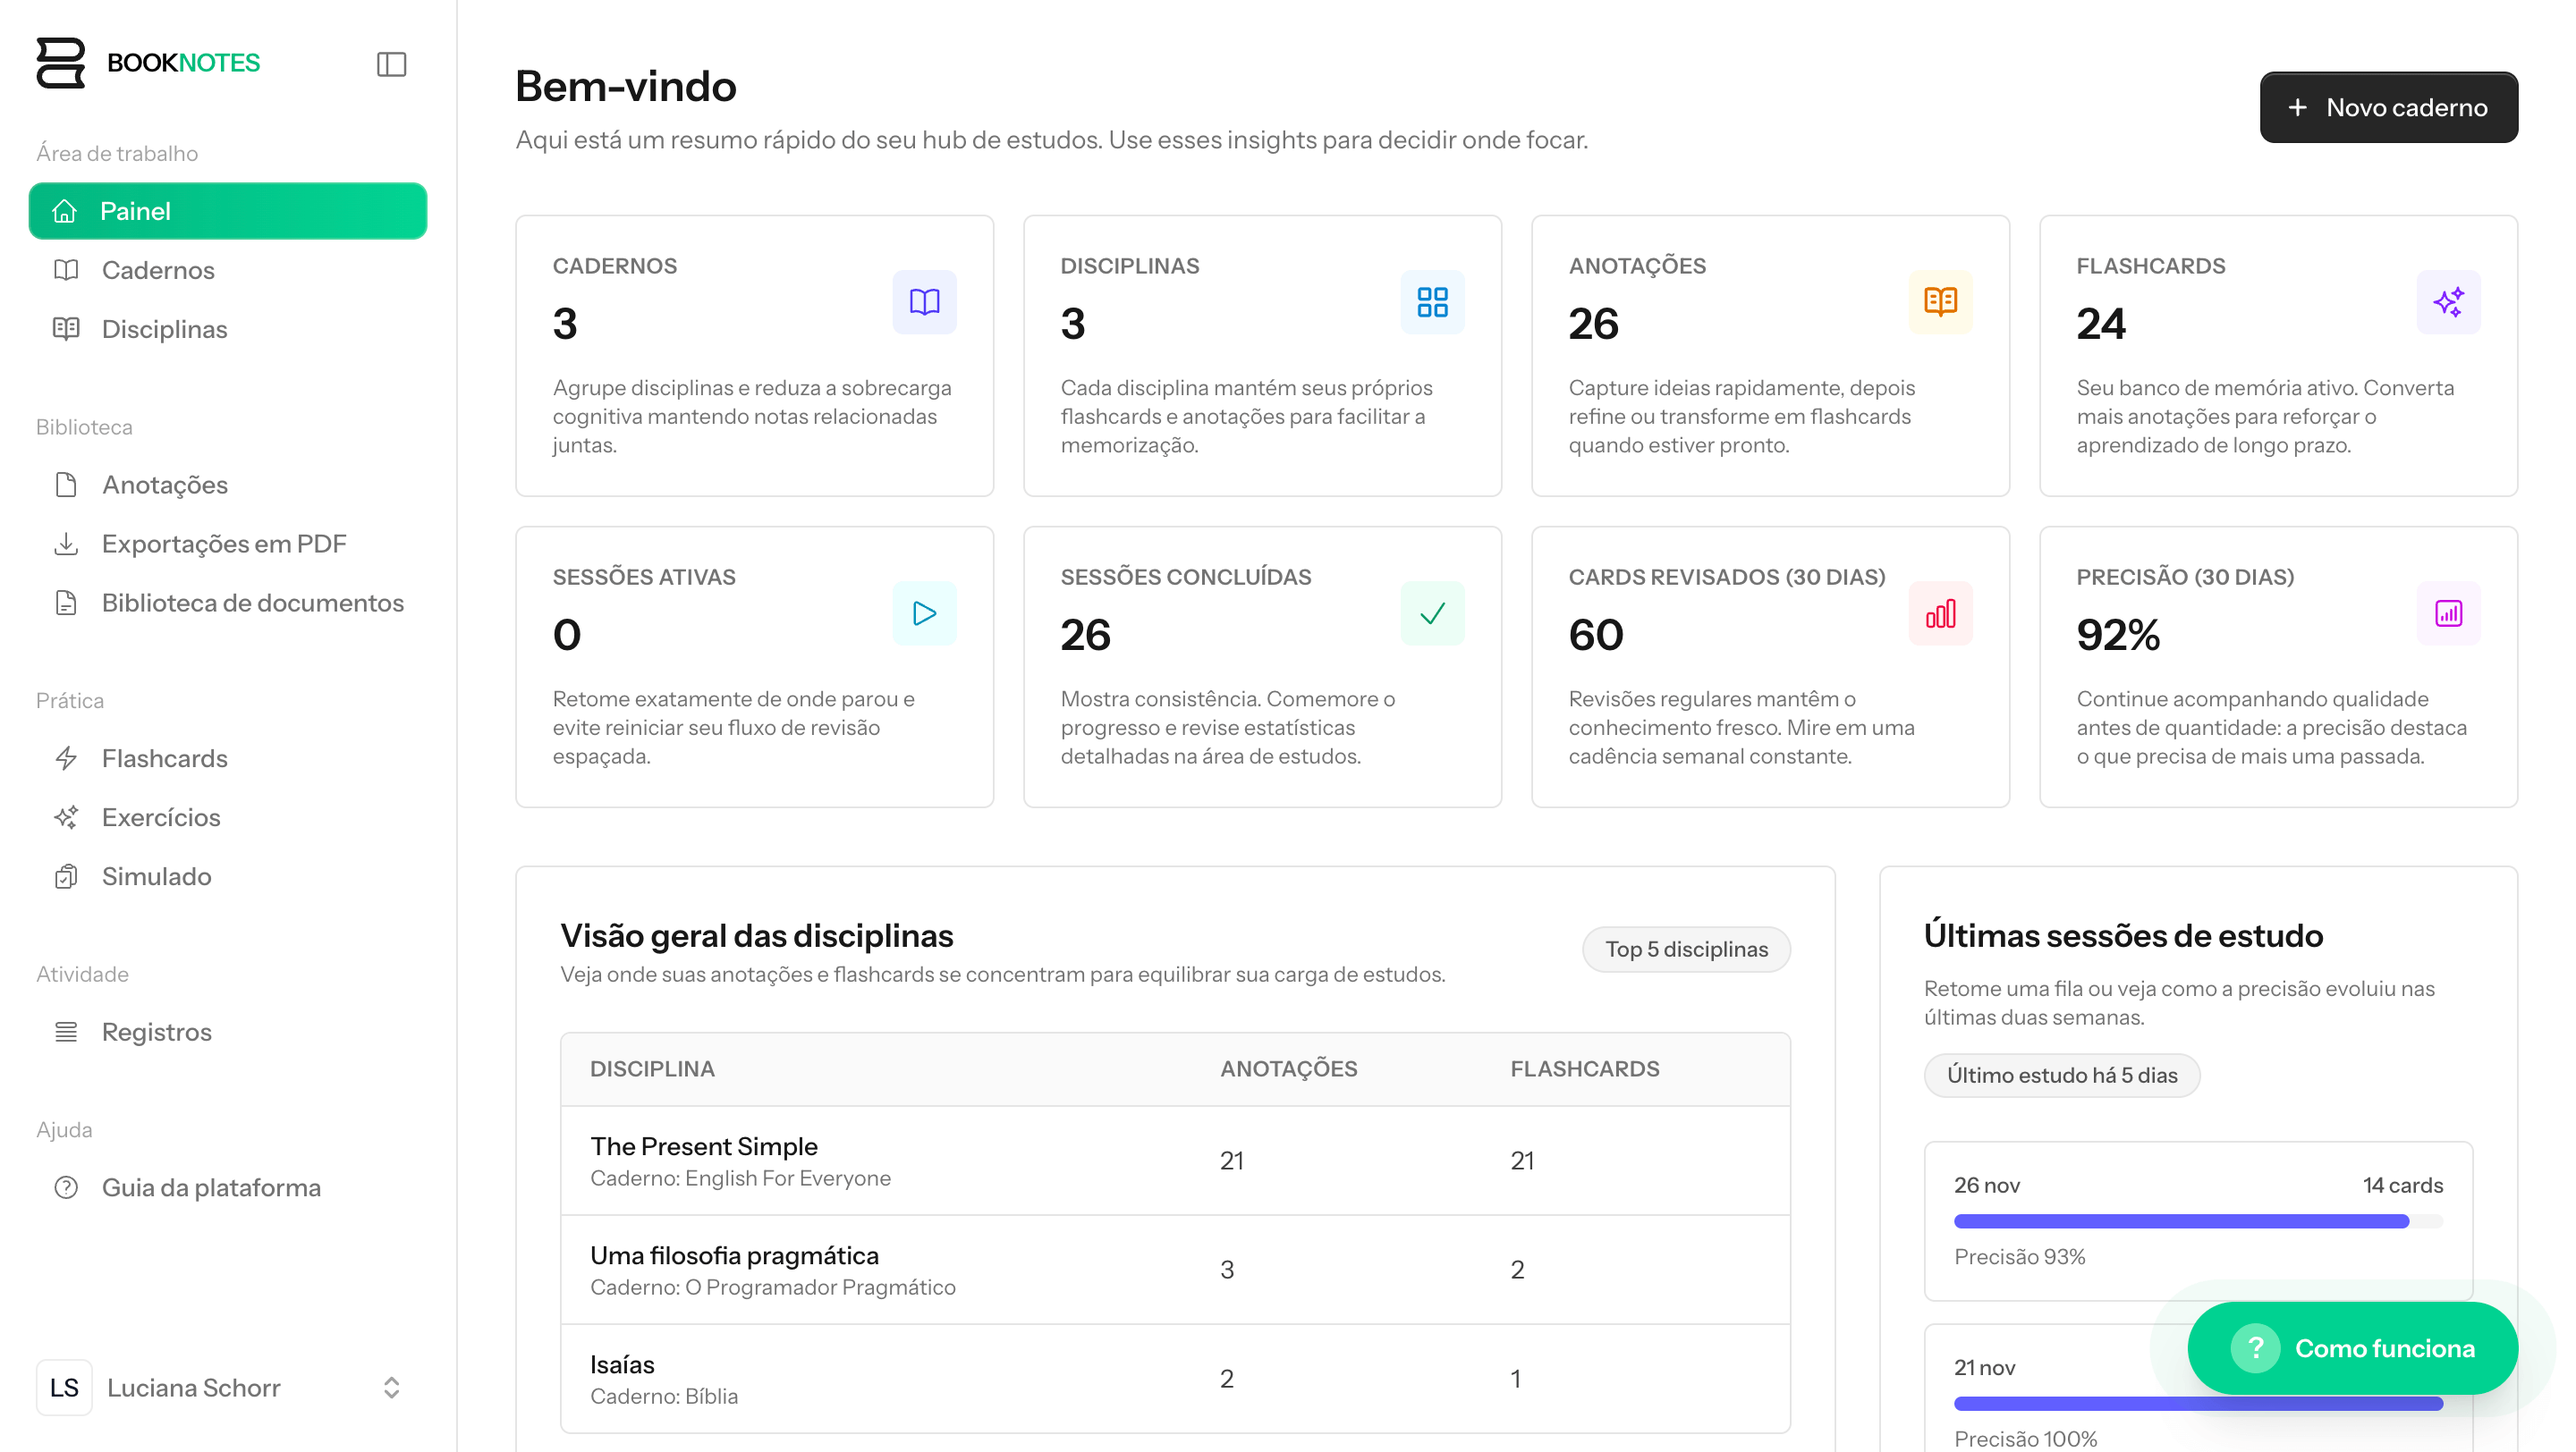
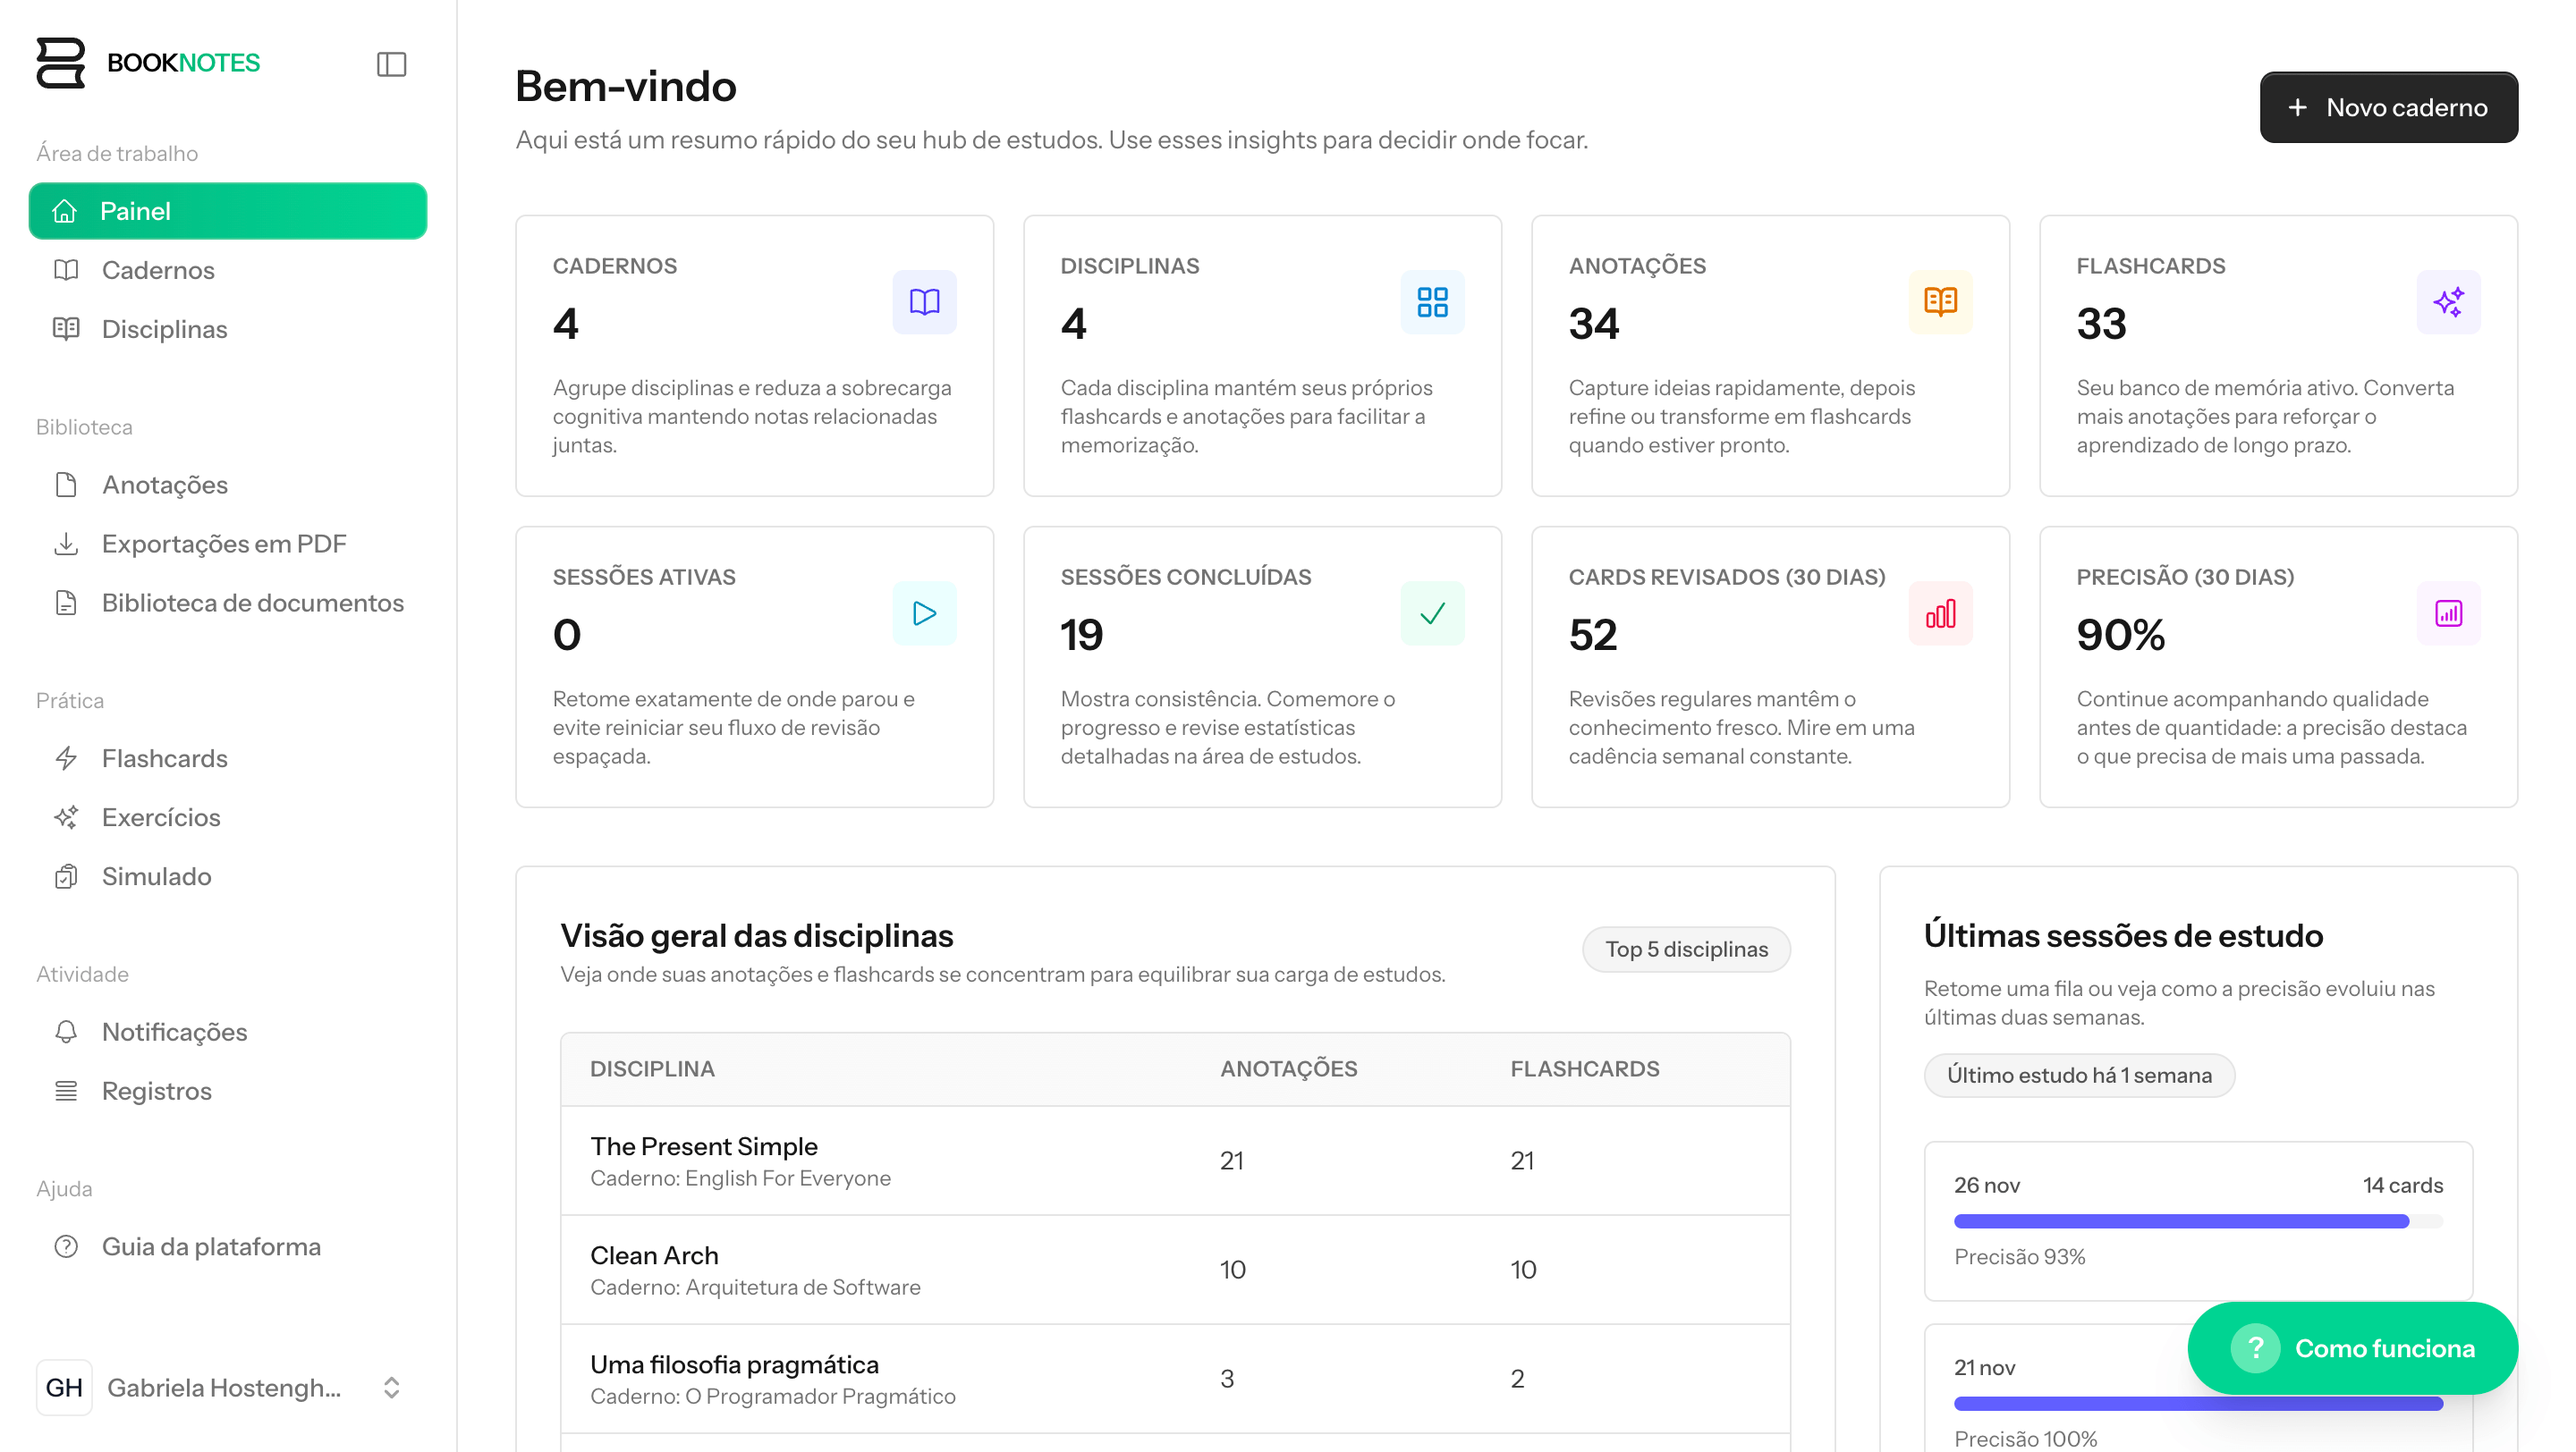
refac: nova imagem home e notificação boas vindas

diff --git a/app/Notifications/GenericSystemNotification.php b/app/Notifications/GenericSystemNotification.php
@@ -1,0 +1,52 @@
+<?php
+
+namespace App\Notifications;
+
+use Illuminate\Bus\Queueable;
+use Illuminate\Notifications\Notification;
+
+class GenericSystemNotification extends Notification
+{
+    use Queueable;
+
+    public function __construct(
+        protected string $title,
+        protected string $message,
+        protected string $tag = 'Onboarding',
+        protected array $meta = [],
+        protected string $level = 'info',
+        protected ?string $actionUrl = null,
+        protected ?string $actionLabel = null,
+        protected ?string $icon = null,
+    ) {
+    }
+
+    /**
+     * Get the notification's delivery channels.
+     *
+     * @return array<int, string>
+     */
+    public function via(object $notifiable): array
+    {
+        return ['database'];
+    }
+
+    /**
+     * Get the array representation of the notification.
+     *
+     * @return array<string, mixed>
+     */
+    public function toArray(object $notifiable): array
+    {
+        return [
+            'tag' => $this->tag,
+            'meta' => $this->meta,
+            'level' => $this->level,
+            'title' => $this->title,
+            'message' => $this->message,
+            'action_url' => $this->actionUrl ?: null,
+            'action_label' => $this->actionLabel ?: null,
+            'icon' => $this->icon,
+        ];
+    }
+}

diff --git a/app/Models/User.php b/app/Models/User.php
@@ -3,6 +3,7 @@
 namespace App\Models;
 
 use App\Notifications\Auth\VerifyEmail;
+use App\Notifications\GenericSystemNotification;
 use Illuminate\Contracts\Auth\MustVerifyEmail;
 use Illuminate\Database\Eloquent\Factories\HasFactory;
 use Illuminate\Database\Eloquent\Relations\HasMany;
@@ -19,6 +20,30 @@ class User extends Authenticatable implements MustVerifyEmail
     use HasFactory;
     use Notifiable;
     use TwoFactorAuthenticatable;
+
+    protected static function booted(): void
+    {
+        static::created(function (self $user) {
+            $user->notify(new GenericSystemNotification(
+                title: 'Bem-vindo ao Booknotes!',
+                message: <<<'MESSAGE'
+Estamos muito felizes em ter você aqui!
+
+A partir de agora, você tem um espaço organizado para anotar, aprender, revisar e evoluir nos seus estudos.
+
+Comece criando seu caderno e sua disciplina, ou importe um conteúdo para gerar flashcards e exercícios automaticamente.
+
+Se precisar de ajuda, pode contar com a gente. 🚀
+
+Bons estudos!
+Equipe Booknotes
+MESSAGE,
+                tag: 'Onboarding',
+                meta: ['origem' => 'Sistema'],
+                level: 'success',
+            ));
+        });
+    }
 
     /**
      * The attributes that are mass assignable.
